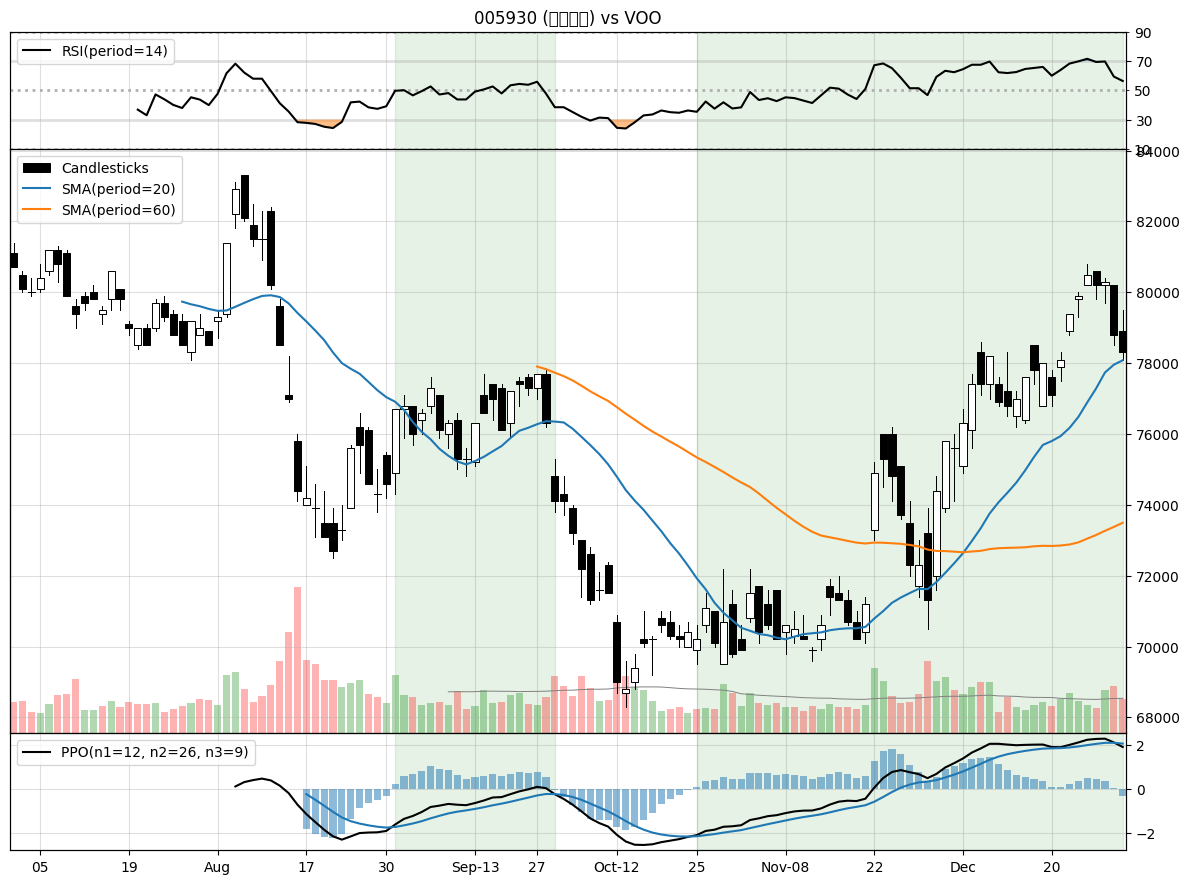
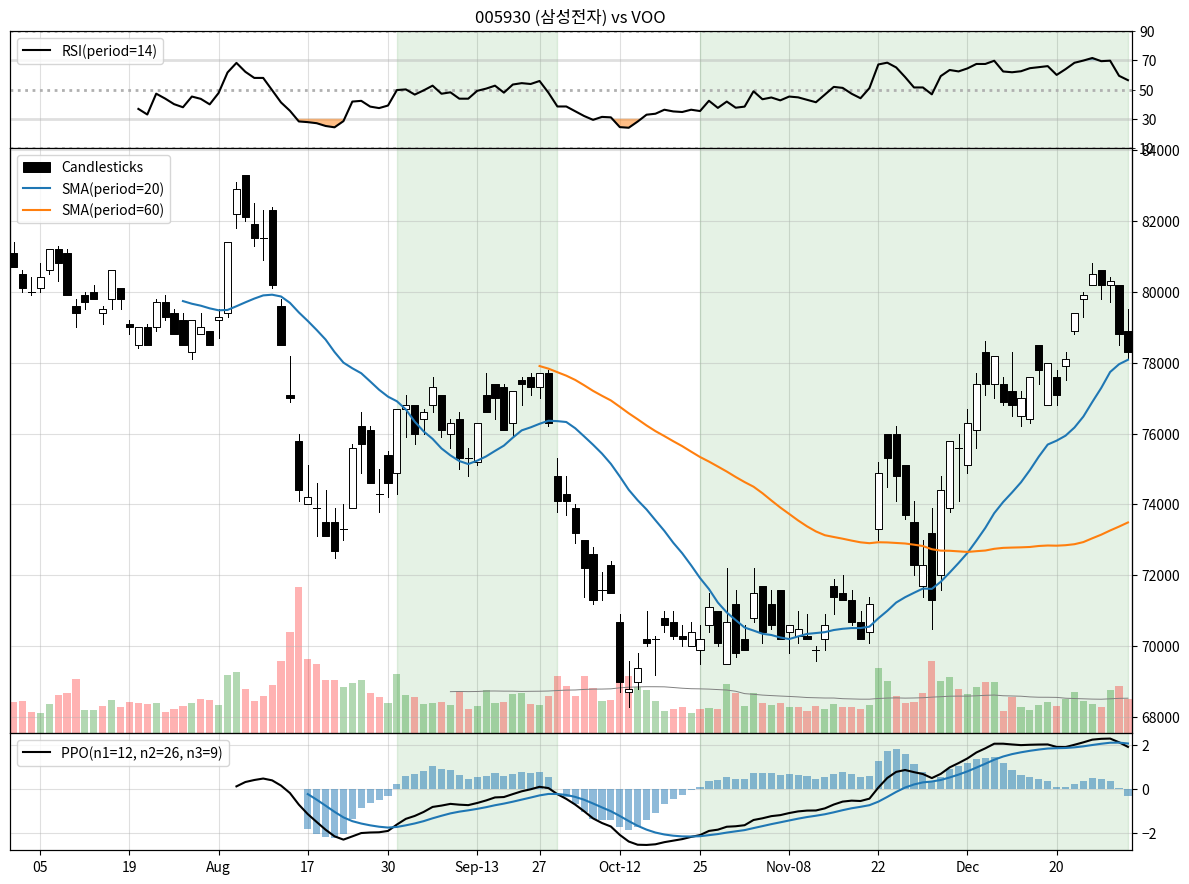
Auto-commit moved files

diff --git a/my-flask-app/Results_plot_mpl.py b/my-flask-app/Results_plot_mpl.py
@@ -31,9 +31,10 @@ print("Path exists:", os.path.exists(font_path))
 # 폰트 속성 설정
 if os.path.exists(font_path):
     font_prop = fm.FontProperties(fname=font_path)
-    plt.rcParams['font.family'] = 'sans-serif'
-    plt.rcParams['font.sans-serif'] = ['Noto Sans KR']  # 폰트 이름을 직접 지정
-
+    fm.fontManager.addfont(font_path)  # 폰트를 매트플롯립에 추가
+    plt.rcParams['font.family'] = font_prop.get_name()
+    plt.rcParams['font.sans-serif'] = [font_prop.get_name()]
+    
     # 폰트가 제대로 설정되었는지 확인
     print("Font name:", font_prop.get_name())
 else:
